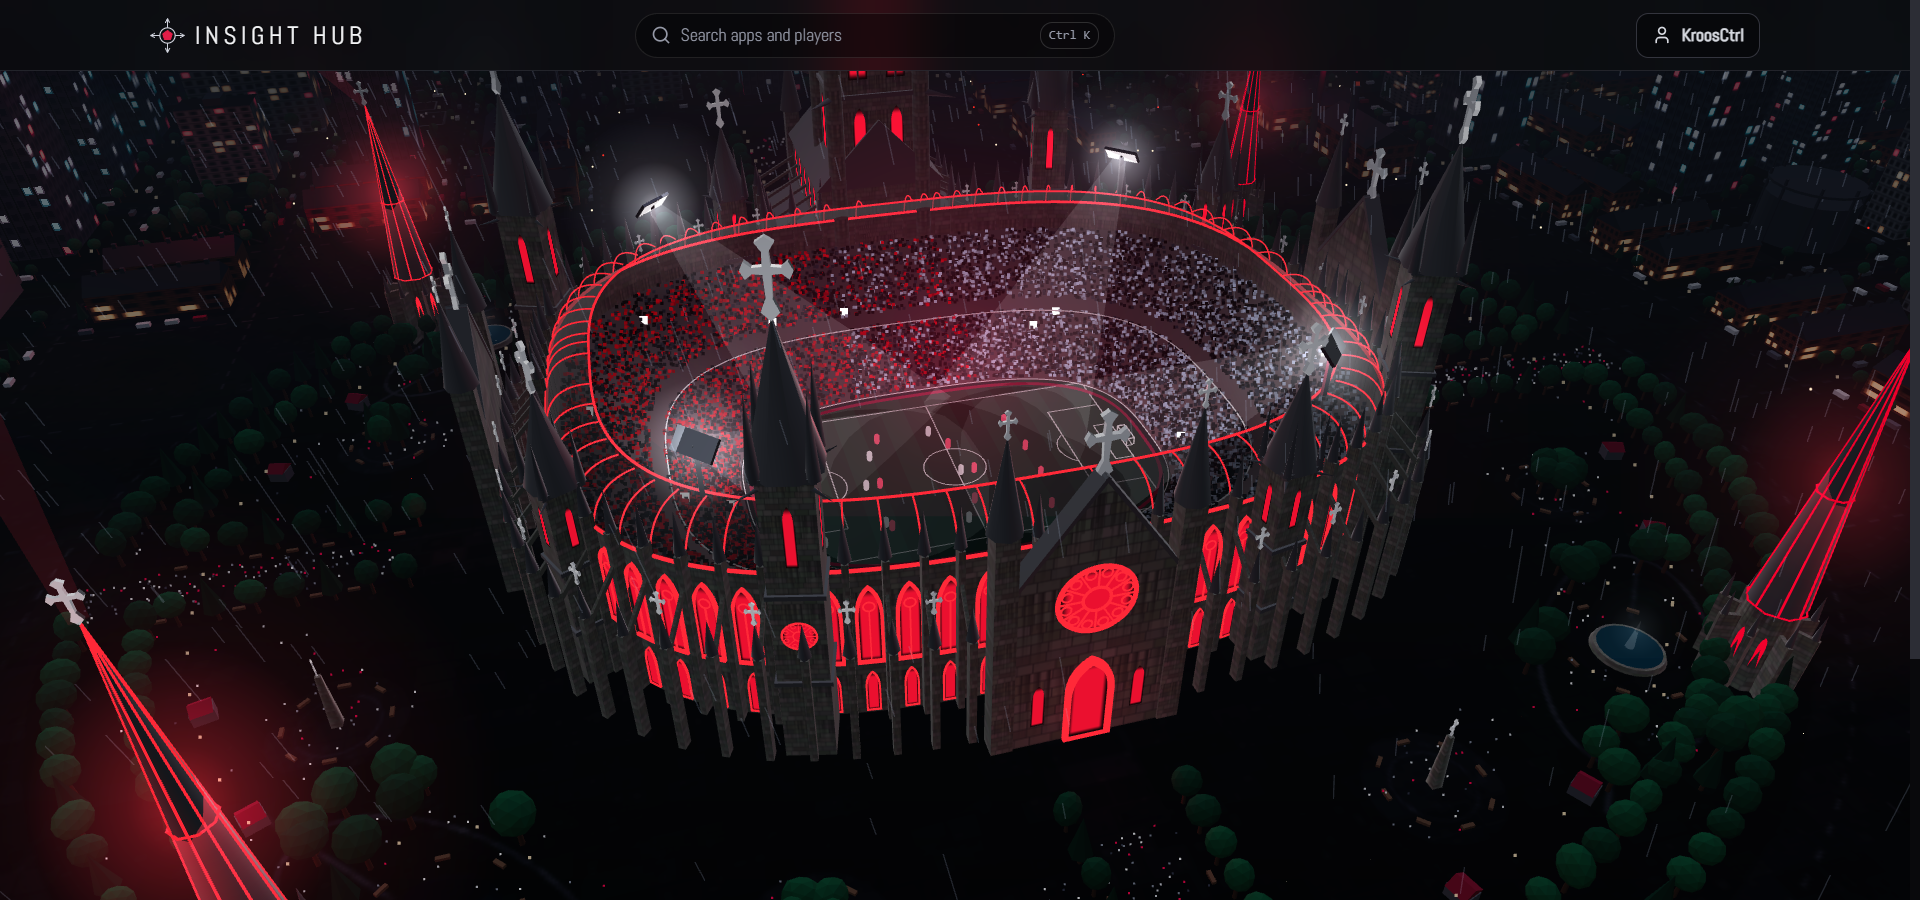
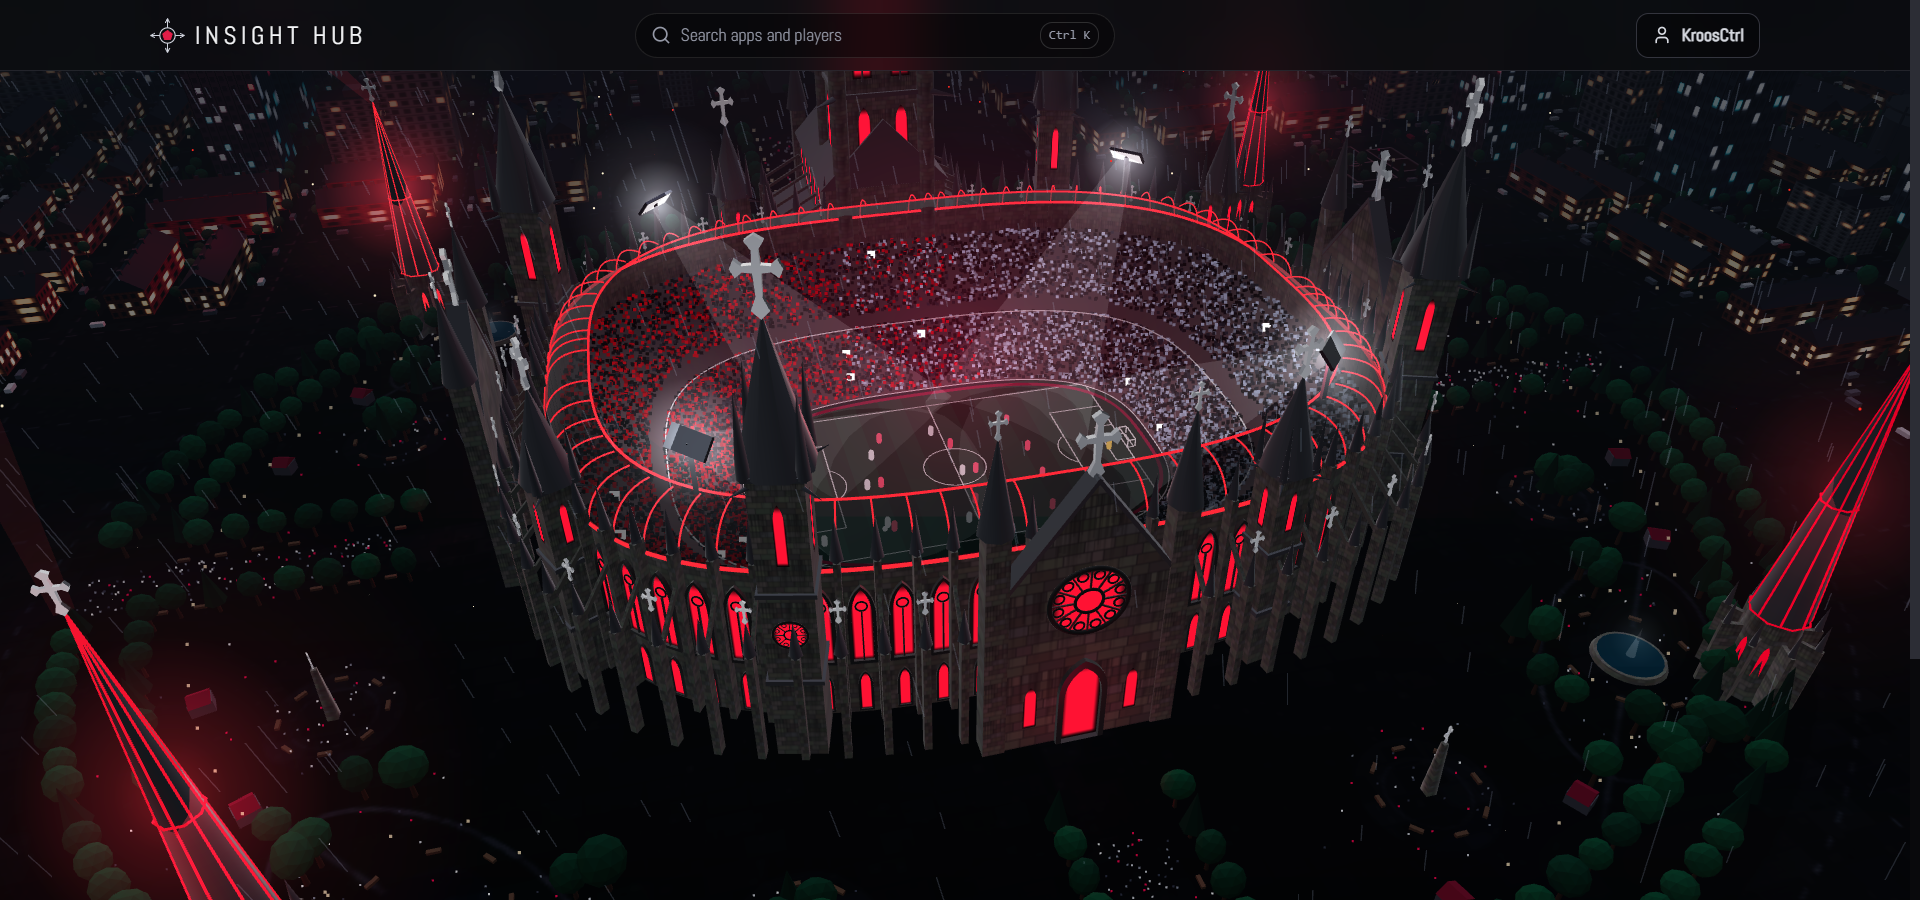
Stadium: black ironwork for window and door trim

diff --git a/src/three/stadium.ts b/src/three/stadium.ts
@@ -183,6 +183,8 @@ interface Kit {
   glass: THREE.ShaderMaterial;
   /** Red neon tubing. */
   neon: THREE.MeshBasicMaterial;
+  /** Black ironwork for window and door surrounds. */
+  iron: THREE.MeshStandardMaterial;
   glow: THREE.CanvasTexture;
 }
 
@@ -224,6 +226,7 @@ function makeKit(): Kit {
         }`,
     }),
     neon: new THREE.MeshBasicMaterial({ color: NEON_RED, fog: false }),
+    iron: new THREE.MeshStandardMaterial({ color: 0x060607, roughness: 0.55, metalness: 0.5, envMapIntensity: 0.25 }),
     glow: makeGlowTexture(),
   };
 }
@@ -313,7 +316,7 @@ function buildArcade(group: THREE.Group, kit: Kit) {
   const paneGeometry = glassPane(lancet(4.8, 21), 10);
 
   const pierStone = kit.stone(0.4, 5);
-  const frames = new THREE.InstancedMesh(frameGeometry, kit.neon, bays * 2);
+  const frames = new THREE.InstancedMesh(frameGeometry, kit.iron, bays * 2);
   const panes = new THREE.InstancedMesh(paneGeometry, kit.glass, bays * 2);
   const piers = new THREE.InstancedMesh(new THREE.BoxGeometry(1.5, WALL_HEIGHT + 4, 3), pierStone, bays);
   const pinnacles = new THREE.InstancedMesh(new THREE.ConeGeometry(1.5, 11, 4), kit.slate, bays);
@@ -332,8 +335,8 @@ function buildArcade(group: THREE.Group, kit: Kit) {
   };
 
   // Window tracery: a mullion and an oculus in the head of each tall window
-  const mullions = new THREE.InstancedMesh(new THREE.BoxGeometry(0.32, 14, 0.5), kit.neon, bays);
-  const oculi = new THREE.InstancedMesh(new THREE.TorusGeometry(1.25, 0.2, 6, 20), kit.neon, bays);
+  const mullions = new THREE.InstancedMesh(new THREE.BoxGeometry(0.32, 14, 0.5), kit.iron, bays);
+  const oculi = new THREE.InstancedMesh(new THREE.TorusGeometry(1.25, 0.2, 6, 20), kit.iron, bays);
 
   // Flying buttresses: a free-standing pier outside the wall, tied back to it by a sloping flyer
   const FLY_OUT = 12;
@@ -424,7 +427,7 @@ function buildTowers(group: THREE.Group, kit: Kit): THREE.Vector3[] {
     }
     tips.push(tower.position.clone().setY(height + spireHeight + 2));
     if (tall) {
-      const rose = roseWindow(width * 0.32, kit.glass, kit.neon, 8);
+      const rose = roseWindow(width * 0.32, kit.glass, kit.iron, 8);
       rose.position.set(0, height * 0.48, width / 2 + 0.2);
       tower.add(rose);
     }
@@ -445,13 +448,13 @@ function makePortal(kit: Kit) {
     rake.rotation.z = -side * Math.atan2(24, 17);
     portal.add(rake);
   }
-  const rose = roseWindow(8.5, kit.glass, kit.neon, 12);
+  const rose = roseWindow(8.5, kit.glass, kit.iron, 12);
   rose.position.set(0, 40, 4.15);
   portal.add(rose);
 
   const doorFrame = lancet(11, 24);
   doorFrame.holes.push(new THREE.Path(lancet(8.6, 22).getPoints(12)));
-  const frame = new THREE.Mesh(new THREE.ExtrudeGeometry(doorFrame, { depth: 1.2, bevelEnabled: false, curveSegments: 10 }), kit.neon);
+  const frame = new THREE.Mesh(new THREE.ExtrudeGeometry(doorFrame, { depth: 1.2, bevelEnabled: false, curveSegments: 10 }), kit.iron);
   frame.position.z = 4;
   const door = new THREE.Mesh(glassPane(lancet(8.8, 22.4), 10), kit.glass);
   door.position.set(0, 0.2, 4.1);
